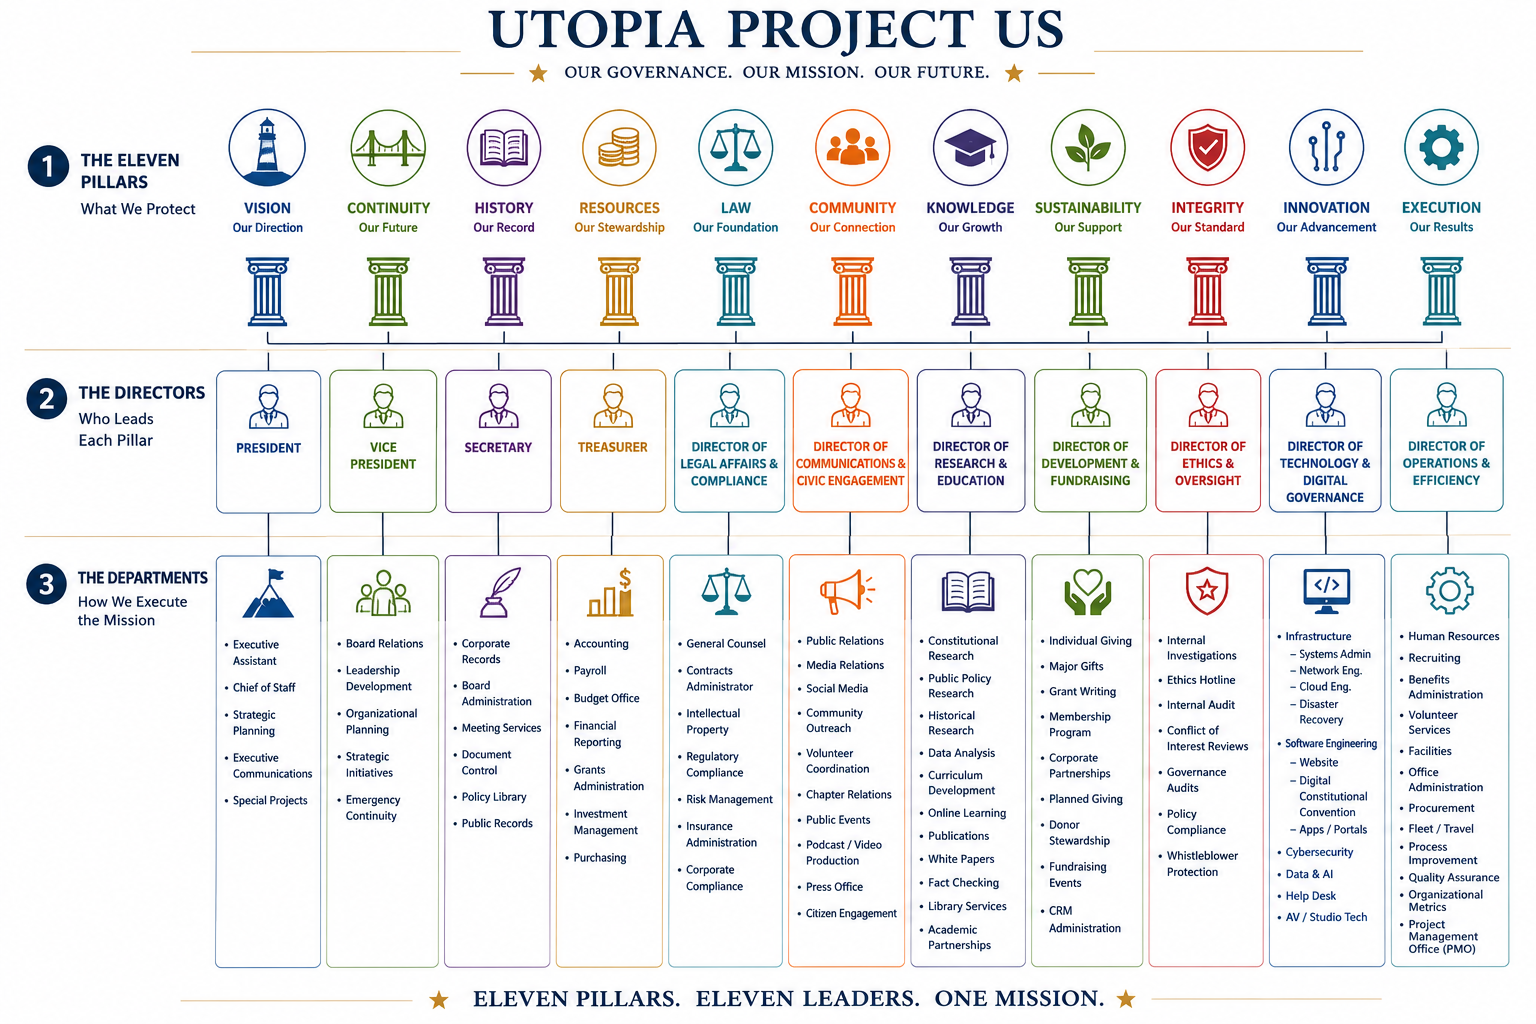
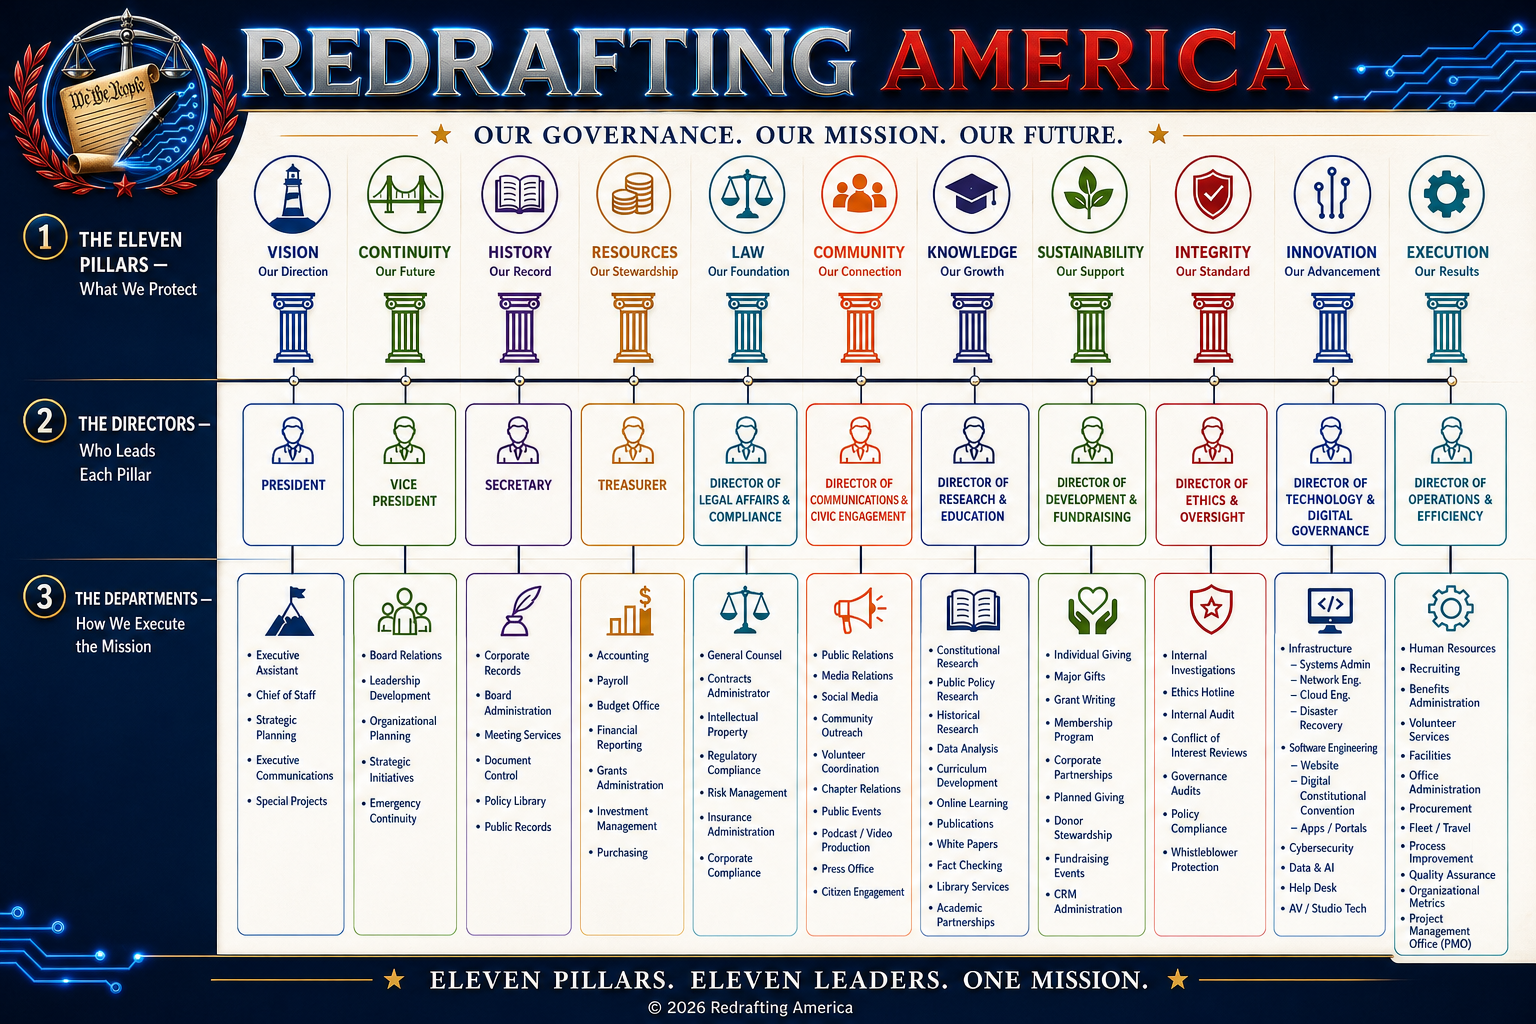
Refresh Redrafting America civic graphics

diff --git a/index.html b/index.html
@@ -540,7 +540,7 @@
       <div class="split reverse">
         <div class="preview-card">
           <a href="assets/images/constitution-v2-lexicon.png" target="_blank" rel="noopener">
-            <img src="assets/images/constitution-v2-lexicon.png" alt="Constitution v2.0 Official Constitutional Lexicon chart, listing ten constitutional institutions with their functions and principles" loading="lazy" />
+            <img src="assets/images/constitution-v2-lexicon.png" alt="Redrafting America Constitution v2.0 Official Constitutional Lexicon chart, listing ten constitutional institutions with their functions and principles" loading="lazy" />
           </a>
           <div class="preview-caption">
             <span>Constitution v2.0 Reference Standard &middot; Rev. 6</span>
@@ -565,7 +565,7 @@
     <div class="wrap">
       <div class="split">
         <div class="preview-card">
-          <img src="assets/images/citizen-portal.png" alt="Citizen Portal concept mockup showing categories like Identity and Documents, Civic Participation, and Legal Status" loading="lazy" />
+          <img src="assets/images/citizen-portal.png" alt="Redrafting America Citizen Portal concept mockup showing sixteen civic-service categories, including identity, voting, public safety, health, permits, privacy, and public records" loading="lazy" />
           <div class="preview-caption">
             <span>Concept mockup &mdash; illustrative only</span>
           </div>

diff --git a/pages/get-involved/careers.html b/pages/get-involved/careers.html
@@ -477,7 +477,7 @@
         The role cards below are the phone-friendly presentation of our proposed structure. The complete visual
         model is also available as a full-resolution image.
       </p>
-      <a href="assets/images/eleven-pillars-of-leadership.png" download>Download the full model (PNG, 1.6 MB) &darr;</a>
+      <a href="assets/images/eleven-pillars-of-leadership.png" download>Download the full model (PNG, 2.1 MB) &darr;</a>
     </aside>
   </div>
 
@@ -503,7 +503,7 @@
         </p>
         <div class="model-actions">
           <a href="assets/images/eleven-pillars-of-leadership.png" target="_blank" rel="noopener">View full resolution &nearr;</a>
-          <a href="assets/images/eleven-pillars-of-leadership.png" download>Download PNG (1.6 MB) &darr;</a>
+          <a href="assets/images/eleven-pillars-of-leadership.png" download>Download PNG (2.1 MB) &darr;</a>
         </div>
       </div>
     </div>

diff --git a/pages/about/mission.html b/pages/about/mission.html
@@ -353,7 +353,7 @@
   </div>
 
   <div class="doc-hero">
-    <img class="crest" src="assets/images/seal.png" alt="The Official Seal of Constitution v2.0" />
+    <img class="crest" src="assets/images/seal.png" alt="Veritas Super Omnia national seal for the United Republic of America" />
     <p class="latin">Ex Uno Floremus &mdash; From One, We Flourish</p>
     <h1>Our Mission</h1>
     <p>
@@ -521,7 +521,7 @@
     </section>
 
     <div class="doc-image light">
-      <img src="assets/images/citizen-portal.png" alt="Citizen Portal concept mockup" loading="lazy" />
+      <img src="assets/images/citizen-portal.png" alt="Redrafting America Citizen Portal concept mockup with sixteen secure civic-service categories" loading="lazy" />
     </div>
 
     <section class="doc-section" id="digital-democracy">

diff --git a/README.md b/README.md
@@ -161,7 +161,13 @@ website/
 │   │   ├── cultural-influences.json        # Editorial source data
 │   │   └── cultural-influences.js          # Local-file-compatible browser data mirror
 │   ├── images/
-│   │   └── eleven-pillars-of-leadership.png # Full-resolution Careers model
+│   │   ├── citizen-portal.png                # Redrafting America civic-services concept
+│   │   ├── constitution-v2-lexicon.png       # Landscape constitutional reference chart
+│   │   ├── constitution-v2-lexicon-portrait.png # Portrait constitutional reference chart
+│   │   ├── eleven-pillars-of-leadership.png  # Full-resolution Careers model
+│   │   ├── redrafting-america-logo-design-spec.png # One-page brand standard
+│   │   ├── seal.png                          # Web national-seal concept
+│   │   └── united-republic-seal-print.png    # Print national-seal concept
 │   ├── scripts/
 │   │   ├── drafting-room.js                  # Drafting Room page behavior
 │   │   └── site-shell.js                     # Shared panels, drawer, footer, and navigation model
@@ -281,6 +287,7 @@ Not everything in the original plan was over-scoped. **Plausible/PostHog-style p
 - Verified automatically managed Let's Encrypt certificates and HTTPS on the canonical website and redirect domains. Vercel owns certificate renewal for the attached domains.
 - Cleaned obsolete Microsoft 365 DNS records from the personal `mcguckin.me` and `mcguckin.net` zones while preserving Apple Mail, web, Home Assistant, gateway, and other unrelated records. Their SPF policies now authorize iCloud only; `mcguckin.name` required no Microsoft cleanup.
 - Replaced the former public identity with the approved Redrafting America Web and Print logos, regenerated browser/device icons, standardized organization and contact copy, and retained the memorable public telephone display `215-4-UTOPIA` with its numeric dial target.
+- Rebuilt the site's principal civic graphics for the new identity: expanded the Citizen Portal to sixteen service categories, modernized the Eleven Pillars governance chart without changing its organizational model, produced Web and Print **United Republic of America** seal concepts, added Redrafting America ownership lines to both Constitutional Lexicon layouts, and created a one-page logo design specification. Every new master carries `© 2026 Redrafting America` where the format permits.
 - Chose **Ex Uno Floremus — From One, We Flourish** as the single logo-adjacent motto. **Veritas Super Omnia — The Truth Above All Else** remains the project's governing principle and footer motto.
 - Reserved `redraftingamerica` as the planned social handle throughout the site. Because no replacement social accounts exist yet, every platform card is muted, marked **Coming soon**, and contains no outbound account link; the main **Social Media** destination remains active so accounts can be added incrementally.
 - Enlarged the desktop header wordmark to use the available left navigation column without crossing the navigation-card boundary. The crest and two-line **REDRAFTING / AMERICA** wordmark now share the same visual height.
